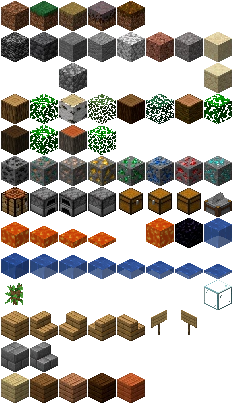
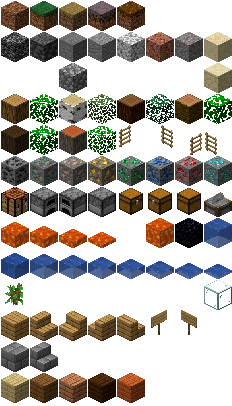
Add ladders

Changed region(s): [[0.8147, 0.3251, 0.9353, 0.3842], [0.5129, 0.2956, 0.5733, 0.3842], [0.694, 0.2956, 0.7543, 0.3842]]

diff --git a/assets/tiles/collidable_blocks.tsx b/assets/tiles/collidable_blocks.tsx
@@ -186,21 +186,33 @@
   </objectgroup>
  </tile>
  <tile id="36">
+  <properties>
+   <property name="Shadow" value="Never"/>
+  </properties>
   <objectgroup draworder="index" id="2">
    <object id="1" x="-35" y="-30" width="86" height="77"/>
   </objectgroup>
  </tile>
  <tile id="37">
+  <properties>
+   <property name="Shadow" value="Never"/>
+  </properties>
   <objectgroup draworder="index" id="2">
    <object id="1" x="-35" y="-30" width="86" height="77"/>
   </objectgroup>
  </tile>
  <tile id="38">
+  <properties>
+   <property name="Shadow" value="Never"/>
+  </properties>
   <objectgroup draworder="index" id="2">
    <object id="1" x="-35" y="-30" width="86" height="77"/>
   </objectgroup>
  </tile>
  <tile id="39">
+  <properties>
+   <property name="Shadow" value="Never"/>
+  </properties>
   <objectgroup draworder="index" id="2">
    <object id="1" x="-35" y="-30" width="86" height="77"/>
   </objectgroup>

diff --git a/assets/tiles/blocks.tsx b/assets/tiles/blocks.tsx
@@ -7,6 +7,26 @@
    <property name="Shadow" value="Never"/>
   </properties>
  </tile>
+ <tile id="36">
+  <properties>
+   <property name="Shadow" value="Never"/>
+  </properties>
+ </tile>
+ <tile id="37">
+  <properties>
+   <property name="Shadow" value="Never"/>
+  </properties>
+ </tile>
+ <tile id="38">
+  <properties>
+   <property name="Shadow" value="Never"/>
+  </properties>
+ </tile>
+ <tile id="39">
+  <properties>
+   <property name="Shadow" value="Never"/>
+  </properties>
+ </tile>
  <tile id="56">
   <properties>
    <property name="Shadow" value="Never"/>
